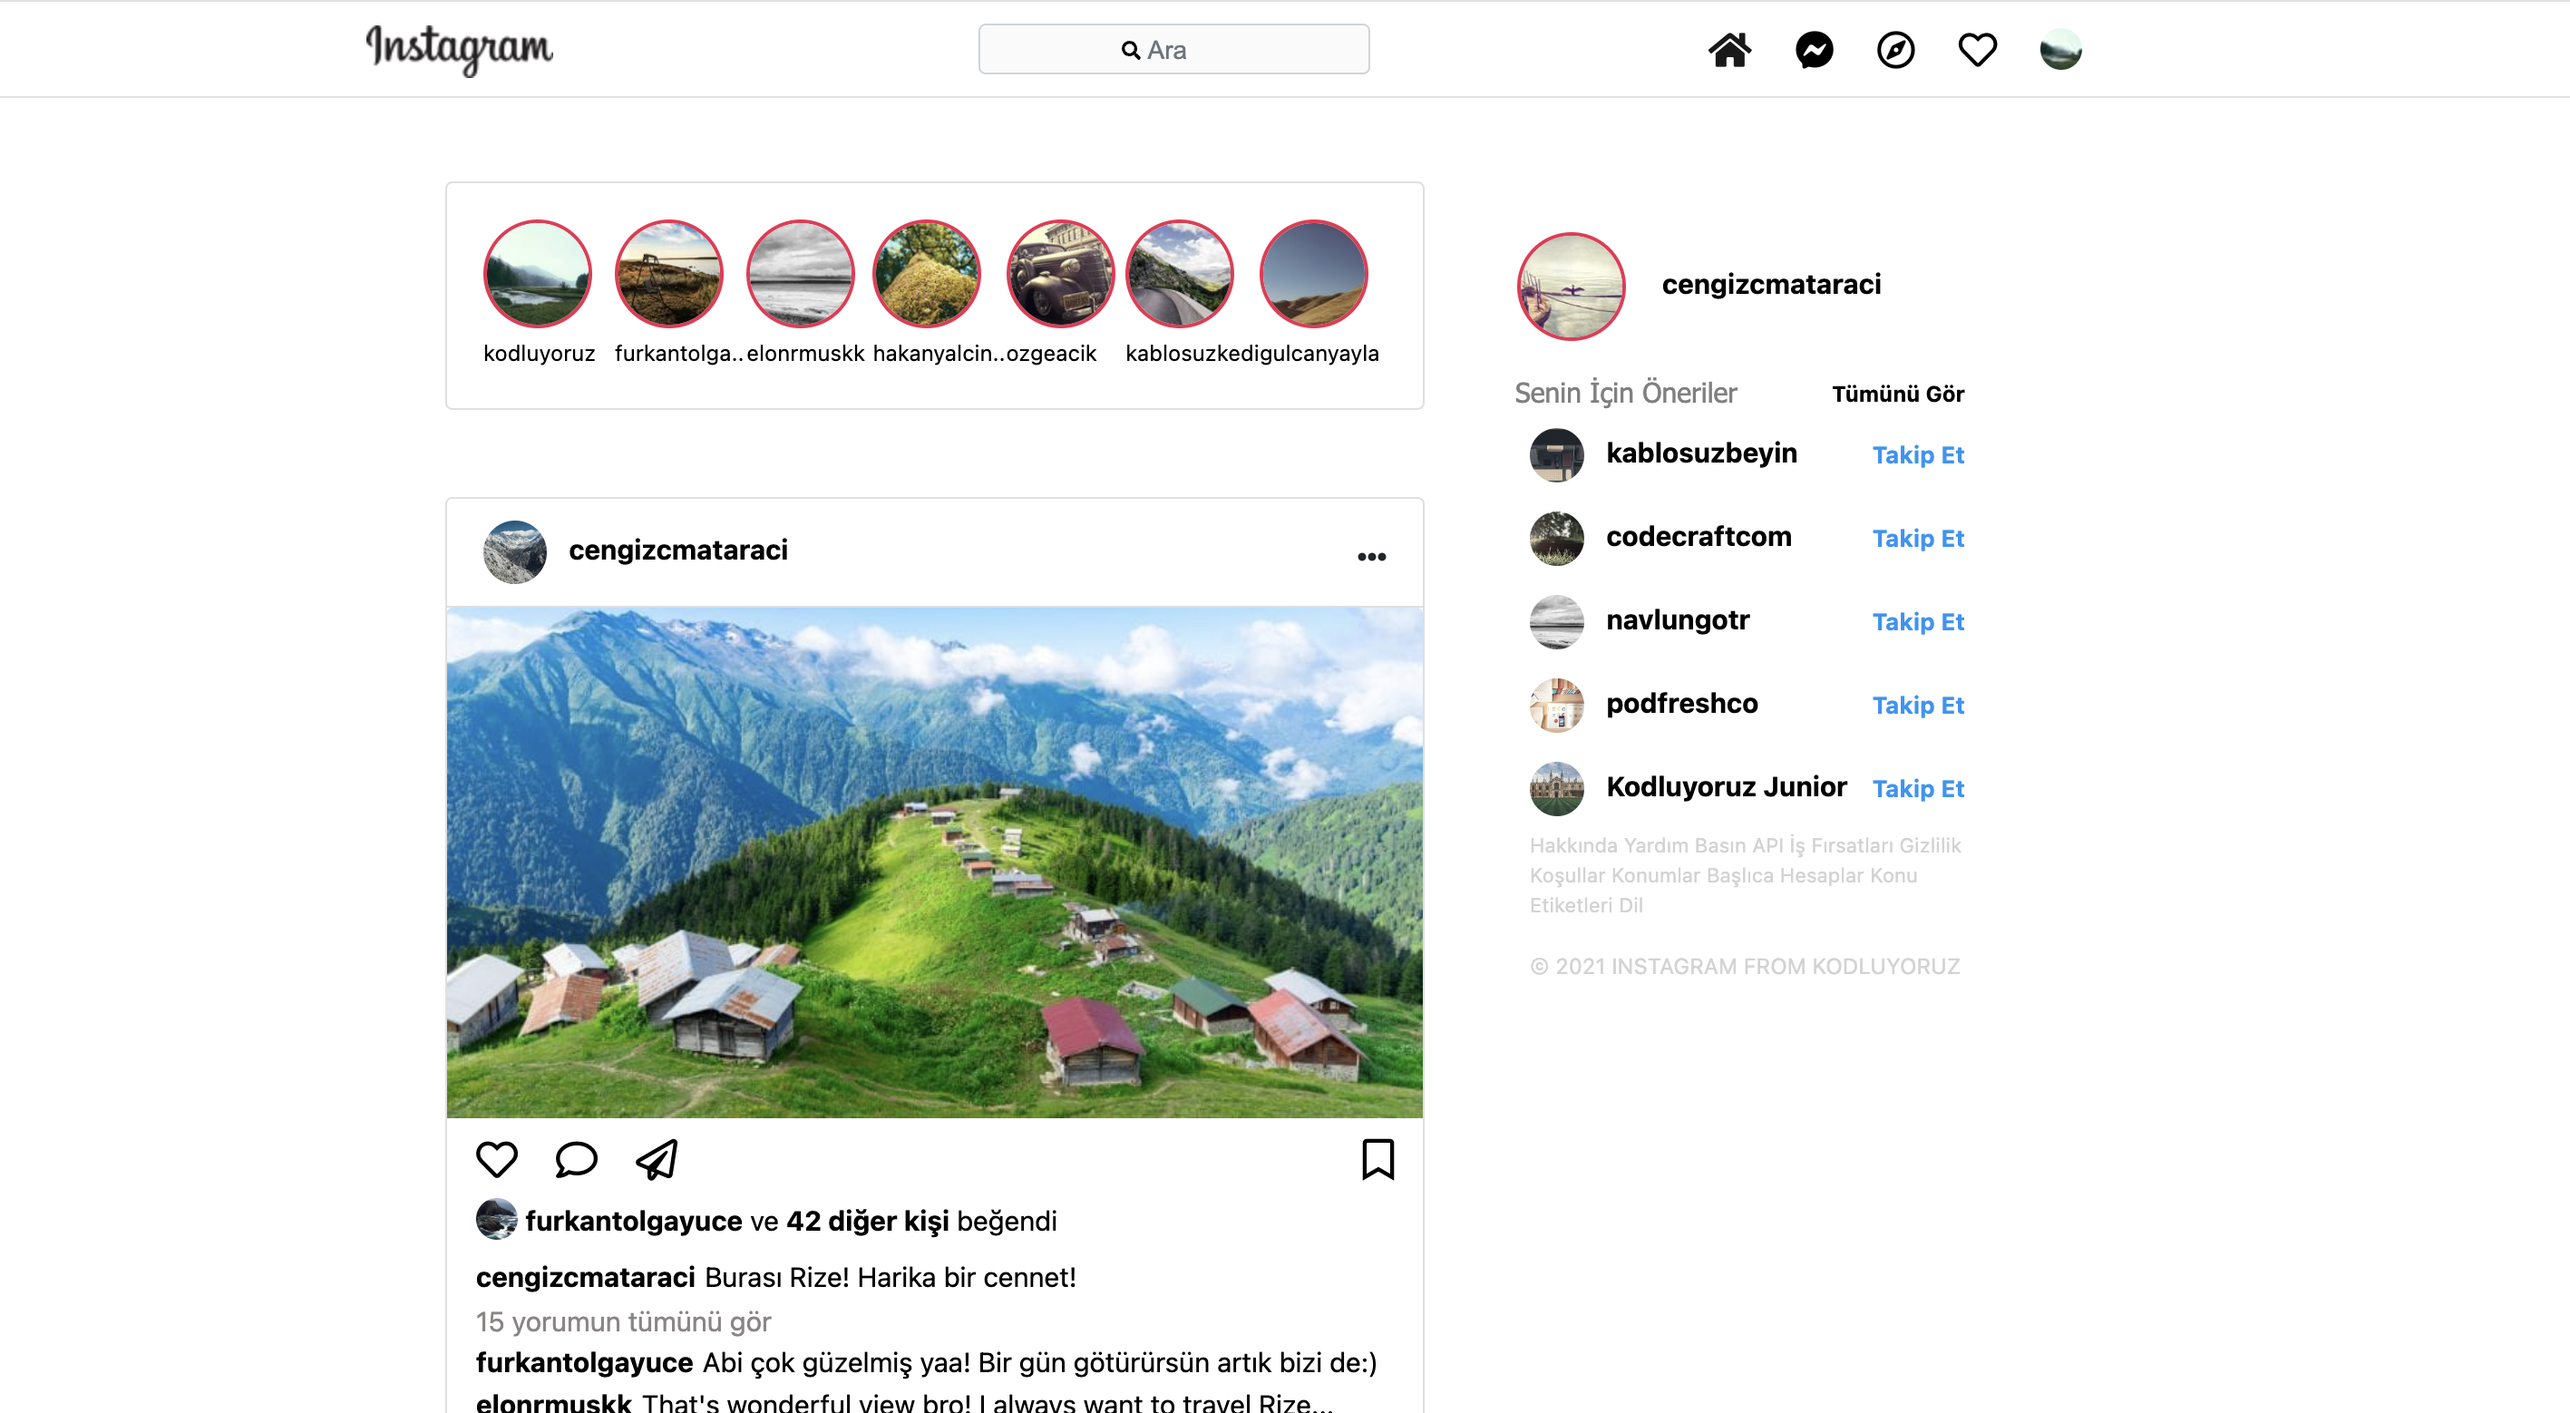
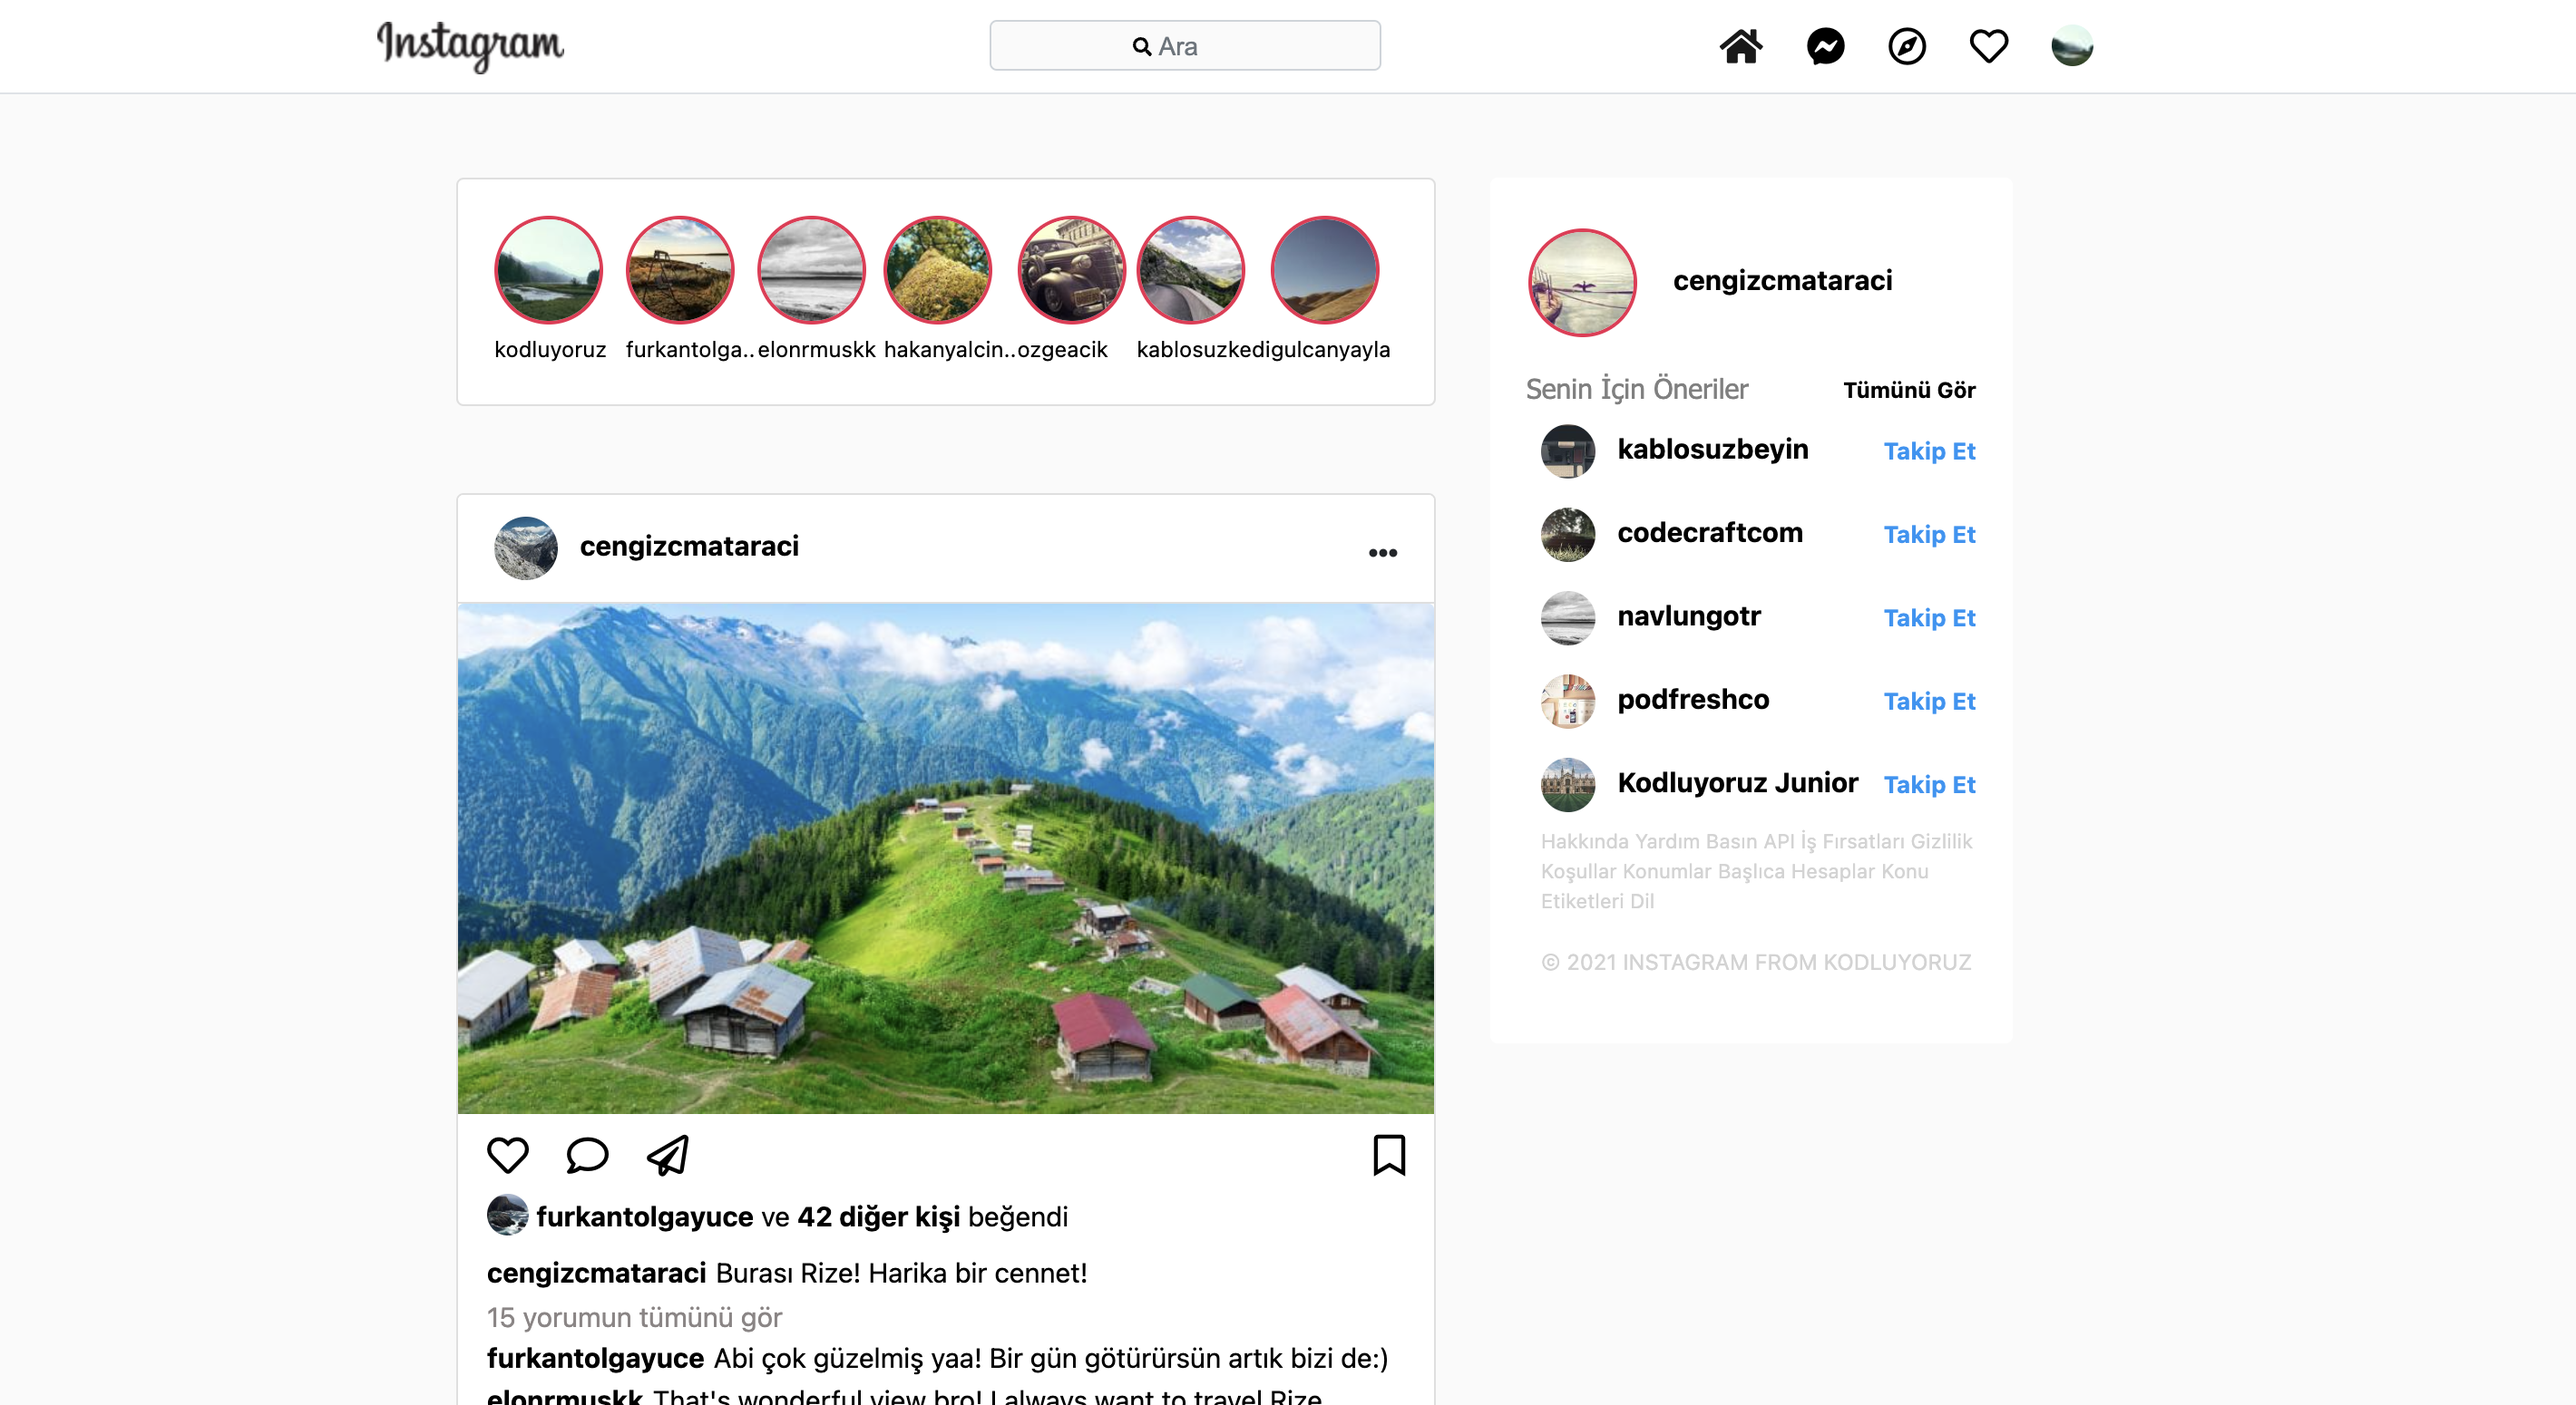
Readme.md added

diff --git a/Week-3/InstagramClone/css/style.css b/Week-3/InstagramClone/css/style.css
@@ -4,9 +4,12 @@
   color: purple;
   background-position: 40%;
   background-size: 6%;
-  background-image: url(/Week-3/InstagramClone/assets/search-solid.svg);
+  background-image: url(/assets/search-solid.svg);
   background-repeat: no-repeat;
-  
+}
+
+body{
+  background-color: #FAFAFA
 }
 
 input.empty {
